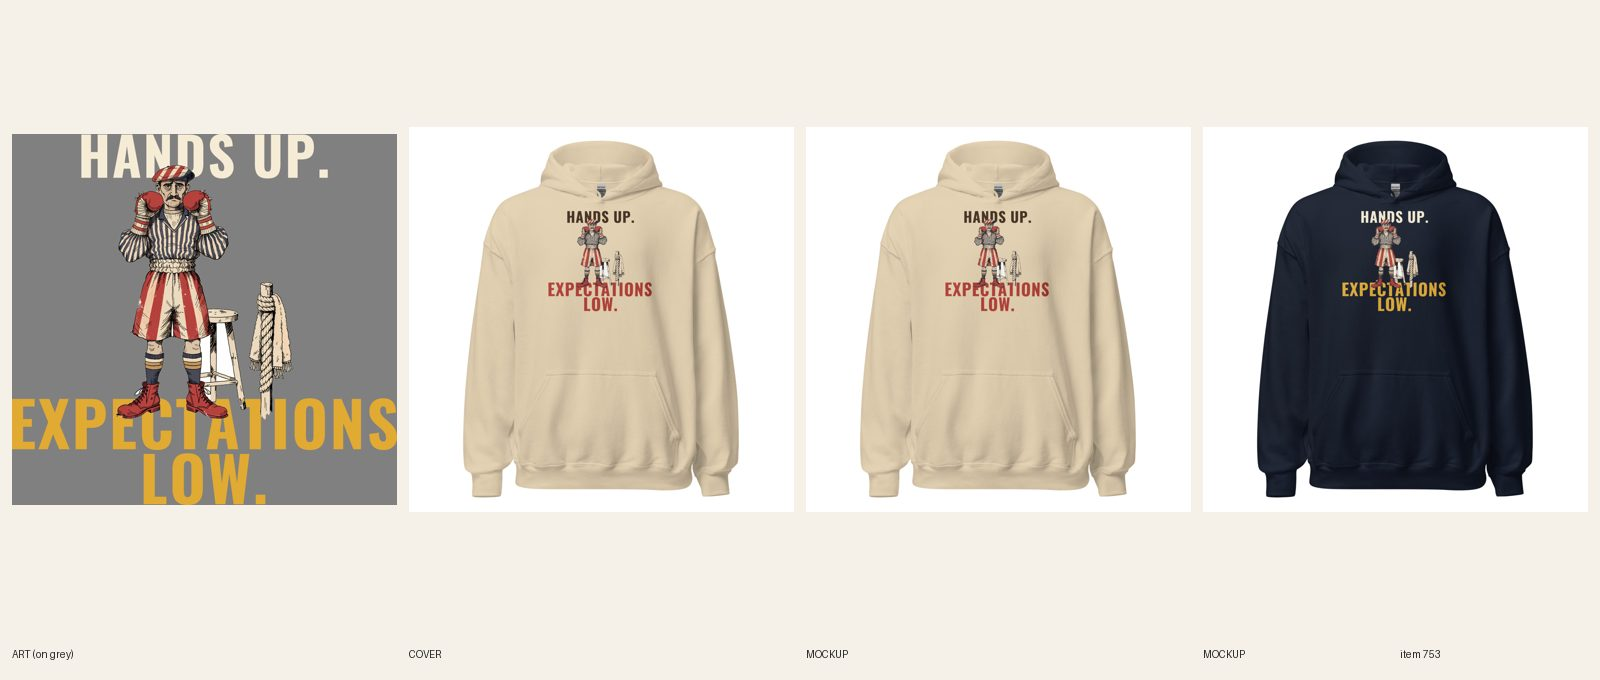
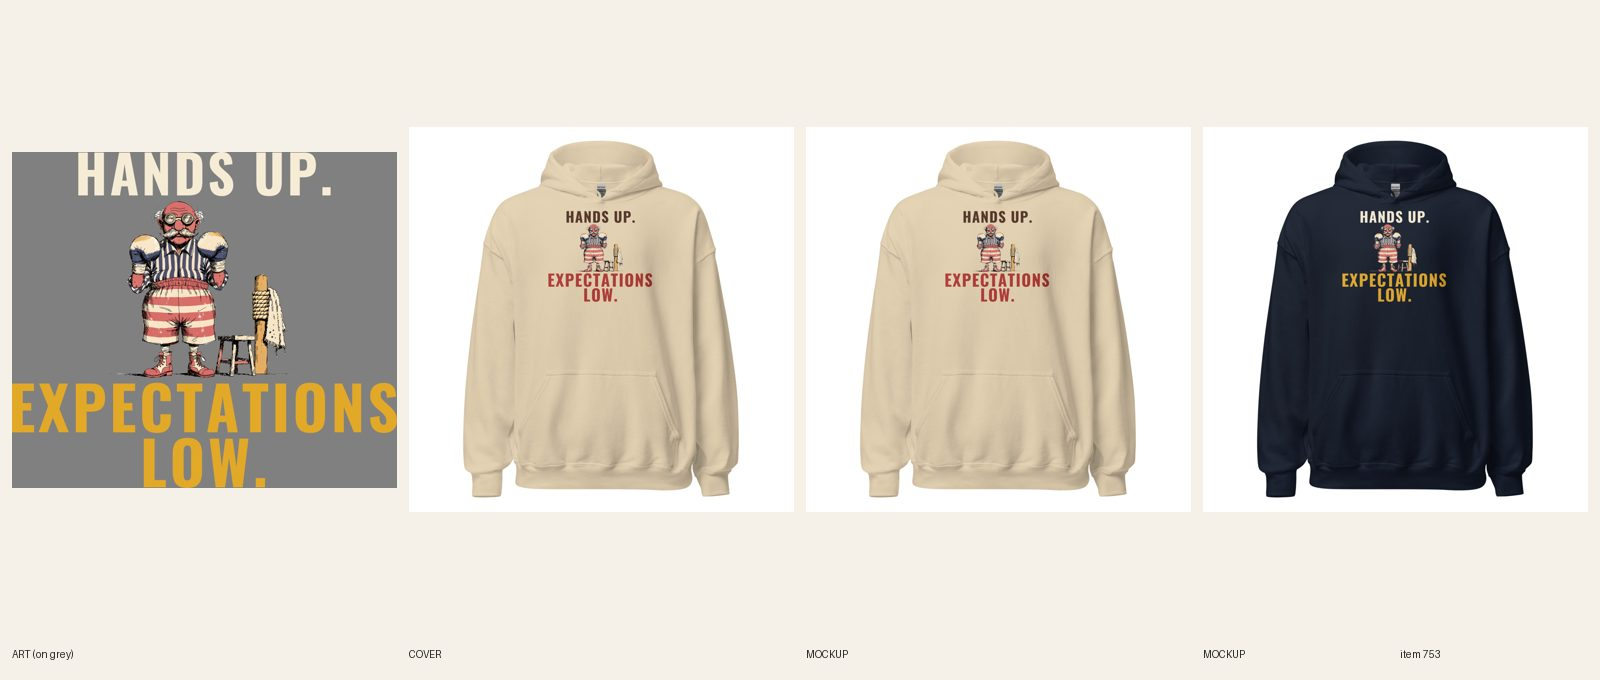
[B] review 753 Men's Boxing Hands Up. Expectations Low. hoodie (round 2)

diff --git a/docs/pipeline/753-boxing-hoodie-hands-up-expectations-low.md b/docs/pipeline/753-boxing-hoodie-hands-up-expectations-low.md
@@ -1,4 +1,4 @@
-status: BUILDING [B] 2026-10-20 22:38Z
+status: REVIEW
 lane: B
 type: new
 id: 753
@@ -28,3 +28,4 @@ kd: 20
 - 2026-10-20 21:50 UTC director: brief written, READY (lane B gym; boxing hoodie 3,600/20; measured today, ownership checked in docs/product-keyword-map.json, pipeline primaries and collections.ts).
 - 2026-10-20 23:00 UTC builder [B]: built to REVIEW. One Recraft call ($0.04, 1 of 3): bored mustached boxer in guard, stool and towel on rope post. Lockup: HANDS UP. above (beret touching the S), boxer in the middle, EXPECTATIONS / LOW. below, boots just grazing the punch. Oswald 700. 7h: headline 2266 px / punch 3541 px = 156%. 7k: type 1361 of 3414 px = 40%. 7l: subject 1630 of 3600 px = 45% (0.46 of the widest line). FW 1500, TOP 0. Light file: Sand on docs/print-files/k753-light.png (Printful file 1090695744), every word solid dark ink (deep brown headline, faded red punch, no keyline); Navy on k753.png (file 1090695769), cream headline / mustard punch. R7.7: 6/6 Sand on 1090695744, 6/6 Navy on 1090695769, back logo 1080398177 on 12/12. Shopify DRAFT 15371091804464, $39.99 no compare-at, category hoodies aa-1-13-13, tags gym-hoodies + graphic-hoodies-for-men + hoodie + boxing, SEO title 44 / meta 128. Copy: line one = print words + who + when, 6 FAQs 48-57 words, order-by Dec 8, 'boxing hoodie' 3 times in the body. Photos: Sand front, Navy front, neck-logo back last (R6.12/R6.13), alt per R7.8, each color has its own photo; design crops regenerated. Phone-size read OK on both mockups. Cover: plain Printful product shot (retired-covers.json, R6.11). R5.2 proof gate: not verifiable from the builder (web search returns no Etsy listings or favorites); director to judge. R3.7.2 / 7m: no Etsy access to search the line. Cohesion audit not run (node esbuild missing in this container). fal $0.04.
 - 2026-10-20 22:40 UTC director: REDO on docs/review/753.jpg. 1. R5.3.4/R5.3.5: the boxer's cap and gloves sit on HANDS UP. (the D and S are covered) and EXPECTATIONS runs across his boots, the stool and the rope; no letter may touch the art. Separate the lockup from the figure: crop the boxer at the knees with a worn edge (R4.1), or move the stool and rope up beside him, then set the lines clear above and below. 2. New bar (quality-reset): HANDS UP. is about 65% of the print width; the headline is at least 90% of the art width and EXPECTATIONS LOW. stays at least as wide (R3.7.8). 3. Log 7h widths and 7l subject share again. Line approved as is; no new art needed.
+- 2026-10-20 22:54 UTC builder [B]: REDO done (notes 1-3). New wide Recraft art ($0.04, 1 of 3 tries; boxer left, stool and rope post beside him, goggles; line unchanged). Lockup: HANDS UP. above, art, EXPECTATIONS / LOW. below, nothing touches the art (gap 44 px). Oswald 700. 7h: headline 2253 px / punch 3438 px = 153%; headline = 66% of print width and 133% of art width. 7k: type 1290 of 3002 px = 43%. 7l: subject 1700 of 3438 px = 49%. Light file: Sand on docs/print-files/k753-light.png (Printful 1090724132), every word dark ink (brown headline, faded red punch); Navy on k753.png (1090724233), cream / mustard. R7.7: 6/6 Sand on 1090724132, 6/6 Navy on 1090724233, back logo 1080398177 on 12/12. FW 1500 TOP 0. Media replaced (Sand, Navy; neck-logo back last), Story paragraph 2 and FAQ 1 rewritten for the goggled deadpan boxer; title unchanged. Design crops regenerated. Audit not run (esbuild missing). fal $0.04.

diff --git a/docs/intake-log.md b/docs/intake-log.md
@@ -2,7 +2,8 @@
 2026-10-20 22:55 UTC — [D] Director run: inbox had nothing new (Sam has not yet answered the 'yes cap' / 'keep cap' question; not re-asked). 6 LIVE (the cap), all approved earlier and held: sweatpants #712 #713 #714 #715, Frenchie #719 tee + #720 crewneck (ACTIVE + Online Store, Headless, Google & YouTube; audit --handle PASS). Reviewed 9 new: approved and held #604, #635, #647 (added running-hoodies tag), #677, #692, #693; REDO #648 (punch ink vanishes on Storm Blue), #742 round 2 (floating barre), #753 (text over the boxer; headline too narrow). Briefs: #755 poker hoodie (720 / KD 28), #756 bird hoodie (1,300 / 34), #757 pug hoodie (480 / 34) for lane C, #758 women's cycling cropped hoodie (720 / 30) for lane B (its first cold-weather READY item in a while; every measured gym and cropped phrase is owned). READY now A 12 / B 12 / C 12 / E 11 (E not running on the lean plan). Lane C claimed #754 mid-run, so #759 husky hoodie (390 / KD 33) was added: C back to 12. No digest (not due). Lock released.
 2026-10-20 21:53 UTC — [B] Builder run: #753 Men's Boxing Hands Up. Expectations Low. Hoodie built to REVIEW (Sand + Navy, 12/12 synced on files 1090695744 / 1090695769, headline 2266 / punch 3541 px, type 40%, subject 45%, flat cover, Sand light file). Cohesion audit not run (esbuild missing). Lane B queue now has no cold-weather READY items. fal $0.04. Lock released.
 2026-10-20 21:55 UTC — [H] Helper run: Telegram inbox empty (getUpdates returned 0 updates; no pause, resume or TikTok links; nothing to consume). Audit 642 live products: 0 errors, 70 warnings left alone; committed docs/cohesion-audit.md and .json (npm ci first). Category check: 0 products without a Shopify category (query empty, no mutation). Site check: pirate-pillaging-is-a-young-mans-game-mug, mens-gym-rack-your-weights-respectfully-sweatpants and horse-horse-girl-broke-on-purpose-mug all 200 (newest LIVE items); homepage 200. Stuck work: none (lane B and lane C locks fresh; the two BUILDING items were committed minutes ago). Drawn-wording batch 1 of 62: 15 productUpdate calls, all userErrors empty (womens-western-desert-bloom-graphic-tee through womens-western-wild-west-rider-graphic-tee); DONE lines appended to docs/backlog/drawn-wording.md, none SKIPPED. Daily summary not due (sent at the 12:49 run). Lock released.
-RUNNING lane B since 2026-10-20 22:38 UTC
+RUNNING lane B since 2026-10-20 22:54 UTC
+2026-10-20 22:54 UTC — [B] Builder run: REDO #753 Boxing Hands Up. Expectations Low. round 2: new wide boxer art, lockup separated from the art, headline 2253 / punch 3438 px, type 43%, subject 49%, 12/12 synced (Sand 1090724132, Navy 1090724233), REVIEW. fal $0.04.
 2026-10-20 22:38 UTC — [B] Builder run: REDO #742 Barre Tucked. Judging. round 2: barre removed, new pointe swan, 10/10 synced on 1090720785, headline 3150 / punch 3514 px, type 41%, subject 46%, REVIEW. fal $0.04.
 2026-10-20 21:45 UTC — [B] Builder run: REDO #742 Barre Tucked. Judging. cropped hoodie rebuilt (new swan art at a wall barre, foot crossing JUDGING., headline 3204 / punch 3551 px, type 42%, subject 50%, 10/10 synced on file 1090691065), REVIEW. Cohesion audit not run (esbuild missing). Next lane B: #753 boxing hoodie. fal $0.04. Lock released.
 2026-10-20 21:33 UTC — [C] Builder run: #677 pit bull ornament (72 LBS) widened above LAP DOG, REVIEW.
